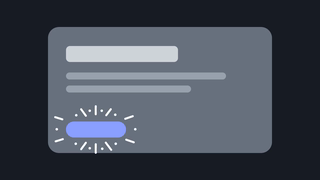
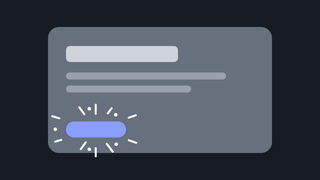
feat(engine): snappier burst, gone by 70 % of its life with seeded ray offsets

diff --git a/packages/ffmpeg-video-composer/src/editor/presets/fx-burst.ts b/packages/ffmpeg-video-composer/src/editor/presets/fx-burst.ts
@@ -3,15 +3,18 @@
 //
 // Each ray is a compile-time `ray` sprite (a solid capsule) ALREADY TURNED to its angle, at its longest
 // length, so nothing rotates per frame; a capsule turned half a turn is itself, so opposite rays share one
-// sprite. A ray is a trim path: its head runs from the inner to the outer radius over the first 60 % of its
-// life, its tail follows over the last 70 % (both on the pass ease), so it grows from a stub, shoots out at
-// full length, then shrinks into the outer radius. The overlay centres the sprite between head and tail
+// sprite. Everything is gone by 70 % of the duration (END): a ray's life runs from its start to there, and
+// nothing lingers faint over the rest of the window: each branch runs CLEAR frames past its fade, so its last
+// frame, the one its overlay repeats until the window ends, is clear. A ray is a trim path: its head runs from the inner to
+// the outer radius over the first 60 % of its life, its tail follows over the last 70 % (both on the pass
+// ease), so it grows from a stub, shoots out at full length, then shrinks into the outer radius. The overlay centres the sprite between head and tail
 // (x/y expressions in t) and scales it down per frame to the head-tail distance (scale eval=frame, never
 // up, floored at 30 %: the stroke thins with it). Alpha: a 4-frame ramp in, then a fade over the last
-// 55 %. Dots (one shared disc sprite) ride between the rays a beat later and shrink as they go. The region is
+// 55 %. Dots (one shared disc sprite, few and large) ride in the gaps between the rays a beat later and shrink
+// as they go. The region is
 // a square around the origin that holds the outer radius plus half a ray, unmasked (fx-marks drawIn): the
 // rays leave the button they burst from. Jitter (seeded, drawn in a fixed order) offsets each ray's angle,
-// reach, length and start. At most 48 overlays per graphic (later passes drop first).
+// reach, length (±20 % at the default) and start (0–30 ms late at the default), so no burst looks stamped. At most 48 overlays per graphic (later passes drop first).
 // Reduced motion: the rays at rest at mid travel, 70 % long, faded in and out; no dots.
 // Filters: fps, trim, split, colorchannelmixer, fade, scale (eval=frame), overlay: all on-device.
 
@@ -46,13 +49,23 @@ const DEFAULT_THICKNESS = 6;
 const DEFAULT_GAP = 0.1;
 const DEFAULT_TRAVEL = 0.55;
 /** A dot's diameter, in ray strokes. */
-export const DOT_SIZE = 2.4;
+export const DOT_SIZE = 3.4;
 const DEFAULT_LENGTH = 0.5;
 const DEFAULT_JITTER = 0.2;
-const MAX_DOTS = 12;
+/** `dots: true` puts one dot in every other gap, at most this many. */
+const MAX_DOTS = 6;
+/** The latest a ray starts after the pass, s, at the default jitter and above. */
+const RAY_DELAY = 0.03;
+/** The share of the duration by which every ray and dot is gone. */
+export const END = 0.7;
+/**
+ * Frames a branch runs past its fade. A layer overlay repeats a branch's last frame until the window ends,
+ * so that frame must be the fully faded one; trim rounds its end to the nearest frame, so one is not enough.
+ */
+const CLEAR = 2;
 /** The smallest share of its sprite a ray is drawn at (a stub at birth and at death). */
 export const FLOOR = 0.3;
-/** Shares of a ray's life: the head travels over [0, HEAD], the tail over [TAIL, 1], the fade from FADE. */
+/** Shares of a ray's life (its start to END): the head travels over [0, HEAD], the tail over [TAIL, 1], the fade from FADE. */
 export const HEAD = 0.6;
 export const TAIL = 0.3;
 export const FADE = 0.45;
@@ -107,10 +120,21 @@ function fan(count: number, spread: number, rotation: number, between: boolean):
   return Array.from({ length: count }, (_, i) => first + offset + i * step);
 }
 
+/** `count` dot angles spread evenly over the gaps between the ray angles (a dot never sits on a ray). */
+function gapsOf(rays: number[], spread: number, rotation: number, count: number): number[] {
+  const step = rays[1] - rays[0];
+  const gaps = rays.slice(0, spread >= 360 ? rays.length : rays.length - 1).map((angle) => angle + step / 2);
+
+  // More dots than gaps: evenly over the spread, as many as asked.
+  if (count > gaps.length) return fan(count, spread, rotation, true);
+
+  return Array.from({ length: count }, (_, i) => gaps[Math.floor(((i + 0.5) * gaps.length) / count)]);
+}
+
 function dotCount(fx: Ctx, rays: number): number {
   const dots = fx.graphic.dots;
 
-  if (dots === true) return Math.min(rays, MAX_DOTS);
+  if (dots === true) return Math.min(Math.ceil(rays / 2), MAX_DOTS);
 
   return typeof dots === 'number' ? dots : 0;
 }
@@ -163,11 +187,12 @@ function partsOf(fx: Ctx, geo: Geometry, thickness: number): Pick<BurstPlan, 'ra
   const spread = g.spread ?? 360;
   const jitter = g.jitter ?? DEFAULT_JITTER;
   const step = spread / (spread >= 360 ? count : Math.max(1, count - 1));
-  const shape = fan(count, spread, g.rotation ?? 0, false).map((angle) => {
+  const angles = fan(count, spread, g.rotation ?? 0, false);
+  const shape = angles.map((angle) => {
     const turn = (fx.random() - 0.5) * jitter * step * 0.5;
     const reach = 1 + (fx.random() - 0.5) * jitter * 0.5;
-    const stretch = 1 + (fx.random() - 0.5) * jitter * 0.8;
-    const delay = fx.random() * jitter * 0.15 * fx.duration;
+    const stretch = 1 + (fx.random() - 0.5) * Math.min(1, jitter * 2);
+    const delay = fx.random() * RAY_DELAY * Math.min(1, jitter / DEFAULT_JITTER);
     const [inner, outer] = travelAlong(fx, geo, angle + turn);
     const far = inner + Math.max(1, outer - inner) * reach;
 
@@ -179,20 +204,20 @@ function partsOf(fx: Ctx, geo: Geometry, thickness: number): Pick<BurstPlan, 'ra
       delay,
     };
   });
-  const dotAngles = fan(dotCount(fx, count), spread, g.rotation ?? 0, true);
+  const dotAngles = gapsOf(angles, spread, g.rotation ?? 0, dotCount(fx, count));
   const dotReach = dotAngles.map(() => 1 + (fx.random() - 0.5) * jitter * 0.6);
   const starts = passStarts(fx, shape.length + dotAngles.length);
 
   return {
     rays: starts.flatMap((t0) =>
-      shape.map(({ delay, ...ray }) => ({ ...ray, start: t0 + delay, life: fx.duration - delay }))
+      shape.map(({ delay, ...ray }) => ({ ...ray, start: t0 + delay, life: fx.duration * END - delay }))
     ),
     dots: starts.flatMap((t0) =>
       dotAngles.map((angle, i) => ({
         angle,
         ...dotPath(travelAlong(fx, geo, angle), dotReach[i]),
         start: t0 + DOT_DELAY * fx.duration,
-        life: fx.duration * (1 - DOT_DELAY),
+        life: fx.duration * (END - DOT_DELAY),
       }))
     ),
   };
@@ -270,7 +295,7 @@ function rayFilters(fx: Ctx, ray: Ray, spec: SpriteSpec, path: Path): Filter[] {
   const ramp = Math.min(rampOf(fx), ray.life / 4);
 
   return [
-    { type: 'trim', value: `start=${fmt(ray.start)}:end=${fmt(ray.start + ray.life)}` },
+    { type: 'trim', value: `start=${fmt(ray.start)}:end=${fmt(ray.start + ray.life + CLEAR / fx.frame.fps)}` },
     fadeIn(fx, ray.start, ramp),
     ...fadeOut(fx, ray.start + ray.life * FADE, ray.life * (1 - FADE)),
     scaleTo(sizeExpr(spec.w, factor), sizeExpr(spec.h, factor)),
@@ -305,7 +330,7 @@ function dotLayer(fx: Ctx, plan: BurstPlan, dot: Dot, input: string, label: stri
   const [c, s] = [Math.cos((dot.angle * Math.PI) / 180), Math.sin((dot.angle * Math.PI) / 180)];
   const side = dotSpec(plan).w;
   const filters: Filter[] = [
-    { type: 'trim', value: `start=${fmt(dot.start)}:end=${fmt(dot.start + dot.life)}` },
+    { type: 'trim', value: `start=${fmt(dot.start)}:end=${fmt(dot.start + dot.life + CLEAR / fx.frame.fps)}` },
     fadeIn(fx, dot.start, Math.min(rampOf(fx), dot.life / 4)),
     ...fadeOut(fx, dot.start + dot.life * 0.5, dot.life * 0.5),
     scaleTo(sizeExpr(side, `1-${DOT_SHRINK}*(${travel})`)),

diff --git a/packages/ffmpeg-video-composer/tests/fx-burst.test.ts b/packages/ffmpeg-video-composer/tests/fx-burst.test.ts
@@ -7,7 +7,7 @@ import { parseSpriteUrl, spriteImage } from '@/editor/presets/fx-sprites';
 import type { SugarContext } from '@/editor/presets/sugar-context';
 import { FX_PRIMITIVES, type FxGraphic } from '@/schemas/fx.schemas';
 import { GraphicSchema } from '@/schemas/graphics.schemas';
-import { planOf } from '@/editor/presets/fx-burst';
+import { DOT_SIZE, END, planOf } from '@/editor/presets/fx-burst';
 import type { FxContext } from '@/editor/presets/fx-kit';
 
 function burstContext(target: { x: number; y: number; w: number; h: number }): FxContext<'burst'> {
@@ -95,6 +95,11 @@ describe('fx burst schema', () => {
     expect(FX_PRIMITIVES.burst.defaults.ceiling * FX_PRIMITIVES.burst.defaults.intensity).toBeGreaterThanOrEqual(0.85);
   });
 
+  it('defaults to a 0.4 s snap on an expo-out travel', () => {
+    expect(FX_PRIMITIVES.burst.defaults.duration).toBe(0.4);
+    expect(FX_PRIMITIVES.burst.defaults.ease).toBe('cubic-bezier(0.16, 1, 0.3, 1)');
+  });
+
   it('accepts its own parameters and rejects the rest', () => {
     const ok = [
       { effect: 'burst' },
@@ -152,22 +157,83 @@ describe('fx burst lowering', () => {
     const up = parseSpriteUrl(inputs.find((url) => url.includes('tilt=90')) ?? '');
     const [ray] = chains.filter((chain) => chain.outputs?.[0] === 'fx1_ry0');
     const overlay = chains.find((chain) => chain.inputs?.includes('fx1_ry0'))?.filters[0];
-    const head = easedProgressExpr(parseEasing('linear'), { delay: 0.4, duration: 0.36 });
-    const tail = easedProgressExpr(parseEasing('linear'), { delay: 0.58, duration: 0.42 });
+    // Visible life: 0.7 of the 0.6 s duration = 0.42 s; head over its first 60 %, tail over its last 70 %.
+    const head = easedProgressExpr(parseEasing('linear'), { delay: 0.4, duration: 0.252 });
+    const tail = easedProgressExpr(parseEasing('linear'), { delay: 0.526, duration: 0.294 });
     const factor = `clip(((${head})-(${tail}))*2,0.3,1)`;
 
     // Thickness 6 px at 1080p → 4 px at 720p; length 0.5 of the 100 px travel → 50 px.
     expect(up).toMatchObject({ kind: 'ray', tilt: 90, width: 50, stroke: 4, w: 6, h: 52 });
     expect(ray.filters.map((f) => `${f.type}=${String(f.value)}`)).toEqual([
-      'trim=start=0.4:end=1',
-      'fade=t=in:st=0.4:d=0.133333:alpha=1',
-      'fade=t=out:st=0.67:d=0.33:alpha=1',
+      'trim=start=0.4:end=0.886667',
+      'fade=t=in:st=0.4:d=0.105:alpha=1',
+      'fade=t=out:st=0.589:d=0.231:alpha=1',
       `scale=w='max(2,2*trunc(3*(${factor})+0.5))':h='max(2,2*trunc(26*(${factor})+0.5))':eval=frame`,
     ]);
     // Region: a square around the origin (640, 360) of half side 200 + 25 + 4 + 4, snapped outward to even px: x 406, y 126.
     expect(overlay?.value).toBe(
       `x='234+0*((${head})+(${tail}))-overlay_w/2':y='134+-50*((${head})+(${tail}))-overlay_h/2'`
     );
+  });
+
+  it('is gone by 70 % of its life: every ray and dot trims and fades out by then', () => {
+    // Default duration 0.4 s from at 0.4: nothing draws after 0.4 + 0.7 · 0.4 = 0.68 s.
+    // Each branch keeps a fully faded frame past its fade: a layer overlay repeats a branch's last frame
+    // until the window ends, so that frame must be clear (2 frames of margin: trim rounds its end to a frame).
+    const { chains } = lower({ target: HEART, dots: true });
+    const parts = chains.filter((chain) => /fx1_(ry|dt)\d+$/.test(chain.outputs?.[0] ?? ''));
+    const done = 0.4 + END * 0.4;
+
+    expect(END).toBe(0.7);
+    expect(parts).toHaveLength(12);
+
+    for (const chain of parts) {
+      const end = Number(/end=([\d.]+)/.exec(String(chain.filters[0].value))?.[1]);
+      const fade = chain.filters.find((f) => String(f.value).startsWith('t=out'));
+      const [, st, d] = /st=([\d.]+):d=([\d.]+)/.exec(String(fade?.value)) ?? [];
+
+      expect(Number(st) + Number(d)).toBeLessThanOrEqual(done + 1e-6);
+      expect(end).toBeCloseTo(Number(st) + Number(d) + 2 / 30, 5);
+    }
+  });
+
+  it('breaks the stamp: each ray starts 0–30 ms late and is ±20 % long, from the seed', () => {
+    let state = 12345;
+    const random = () => {
+      state = (state * 1103515245 + 12345) % 2147483648;
+
+      return state / 2147483648;
+    };
+    const fx = {
+      ...burstContext(HEART),
+      graphic: { type: 'fx', effect: 'burst', rays: 24 },
+      random,
+    } as FxContext<'burst'>;
+    const rays = planOf(fx)?.rays ?? [];
+    const offsets = rays.map((ray) => ray.start - fx.at);
+    const lengths = rays.map((ray) => ray.length / (0.5 * (ray.outer - ray.inner)));
+
+    expect(Math.min(...offsets)).toBeGreaterThanOrEqual(0);
+    expect(Math.max(...offsets)).toBeLessThanOrEqual(0.03);
+    expect(Math.max(...offsets) - Math.min(...offsets)).toBeGreaterThan(0.015);
+    expect(Math.min(...lengths)).toBeGreaterThanOrEqual(0.8 - 1e-9);
+    expect(Math.max(...lengths)).toBeLessThanOrEqual(1.2 + 1e-9);
+    expect(Math.max(...lengths) - Math.min(...lengths)).toBeGreaterThan(0.2);
+    // Every ray still ends with the others, at 70 % of the duration.
+    expect(rays.every((ray) => Math.abs(ray.start + ray.life - (fx.at + END * fx.duration)) < 1e-9)).toBe(true);
+  });
+
+  it('draws fewer, larger dots, each in a gap between two rays', () => {
+    const fx = { ...burstContext(HEART), graphic: { type: 'fx', effect: 'burst', dots: true, jitter: 0 } };
+    const plan = planOf(fx as FxContext<'burst'>);
+    const rays = plan?.rays.map((ray) => ray.angle) ?? [];
+    const dots = plan?.dots.map((dot) => dot.angle) ?? [];
+    const apart = (a: number, b: number) => Math.abs(((a - b + 540) % 360) - 180);
+
+    expect(DOT_SIZE).toBeGreaterThanOrEqual(3.4);
+    expect(dots).toHaveLength(4);
+
+    for (const dot of dots) expect(Math.min(...rays.map((ray) => apart(dot, ray)))).toBeCloseTo(22.5, 6);
   });
 
   it('starts each ray just outside the target edge by default, whatever its shape', () => {
@@ -202,8 +268,8 @@ describe('fx burst lowering', () => {
 
     expect(discs).toHaveLength(1);
     expect(discs[0]?.shape).toBe('disc');
-    expect(count(text, /overlay=x=/g)).toBe(12);
-    expect(count(lower({ target: HEART, rays: 6, dots: 3 }).text, /overlay=x=/g)).toBe(9);
+    expect(count(text, /overlay=x=/g)).toBe(9);
+    expect(count(lower({ target: HEART, rays: 6, dots: 2 }).text, /overlay=x=/g)).toBe(8);
   });
 
   it('defaults to the theme accent and honours an authored colour', () => {

diff --git a/packages/ffmpeg-video-composer/tests/fx-burst-render.test.ts b/packages/ffmpeg-video-composer/tests/fx-burst-render.test.ts
@@ -127,9 +127,9 @@ function litRadii(frame: Buffer, plain: Buffer, angle: number): number[] {
   );
 }
 
-/** The ray's predicted extent at section time t (linear trim path, see fx-burst.ts). */
+/** The ray's predicted extent at section time t (linear trim path over 70 % of the duration, see fx-burst.ts). */
 function predicted(t: number): [number, number] {
-  const p = (t - AT) / DURATION;
+  const p = (t - AT) / (DURATION * 0.7);
   const head = INNER + (OUTER - INNER) * Math.min(1, Math.max(0, p / 0.6));
   const tail = INNER + (OUTER - INNER) * Math.min(1, Math.max(0, (p - 0.3) / 0.7));
   const length = LENGTH * Math.min(1, Math.max(0.3, (head - tail) / LENGTH));
@@ -142,6 +142,7 @@ const ready = hasFfmpeg();
 let plain: Buffer[] = [];
 let burst: Buffer[] = [];
 let turned: Buffer[] = [];
+let dotted: Buffer[] = [];
 
 beforeAll(() => {
   if (!ready) return;
@@ -150,6 +151,7 @@ beforeAll(() => {
   plain = render(null, 'plain');
   burst = render(GRAPHIC, 'burst');
   turned = render({ ...GRAPHIC, rotation: 45 } as FxGraphic, 'turned');
+  dotted = render({ ...GRAPHIC, dots: true, jitter: 0.2, duration: 0.4 } as FxGraphic, 'dotted');
 
   if (!dump) return;
 
@@ -167,7 +169,7 @@ beforeAll(() => {
 
 describe.skipIf(!ready)('burst on real frames', () => {
   it('stands every ray on its angle, between the radii the trim path predicts', () => {
-    for (const n of [9, 14, 17, 22]) {
+    for (const n of [9, 12, 14, 16]) {
       const [near, far] = predicted(n / FPS);
 
       for (const angle of [-90, 0, 90, 180]) {
@@ -187,7 +189,7 @@ describe.skipIf(!ready)('burst on real frames', () => {
   });
 
   it('turns the whole fan by `rotation`: diagonal rays are pre-rotated sprites on the diagonals', () => {
-    const n = 17;
+    const n = 14;
     const [, far] = predicted(n / FPS);
 
     for (const angle of [-45, 45, 135, -135]) {
@@ -207,6 +209,18 @@ describe.skipIf(!ready)('burst on real frames', () => {
 
     expect(lit[0]).toBeGreaterThanOrEqual(Math.round(AT * FPS));
     expect(lit.at(-1)).toBeLessThanOrEqual(Math.round((AT + DURATION) * FPS));
+  });
+
+  it('leaves nothing behind after 70 % of its life: no ray, no faint dot', () => {
+    // At 0.2 s for the default 0.4 s: everything is gone by 0.2 + 0.28 = 0.48 s, between frames 14 and 15
+    // (off the frame grid: trim rounds its end to the nearest frame, so a branch must keep a clear frame).
+    const last = Math.ceil((AT + 0.4 * 0.7) * FPS);
+    const peak = (frame: Buffer, plainFrame: Buffer) =>
+      frame.reduce((most, v, i) => Math.max(most, Math.abs(v - plainFrame[i])), 0);
+
+    expect(peak(dotted[Math.round((AT + 0.1) * FPS)], plain[0])).toBeGreaterThan(120);
+
+    for (let n = last; n < dotted.length; n++) expect(peak(dotted[n], plain[n]), `frame ${n}`).toBeLessThanOrEqual(2);
   });
 
   it('renders the same bytes twice', () => {

diff --git a/packages/ffmpeg-video-composer/src/schemas/fx-celebrate.docs.ts b/packages/ffmpeg-video-composer/src/schemas/fx-celebrate.docs.ts
@@ -85,17 +85,17 @@ export const burstDoc = {
     thickness: 'Ray stroke in px at 1080p (default 6; scaled to the output frame). Thins as the ray shrinks.',
     length:
       "A ray's longest length as a share of its travel (outer - inner; default 0.5). Each ray grows from a stub, shoots out at that length, then shrinks into the outer radius.",
-    dots: 'Small dots riding between the rays: true = one per gap (at most 12), or a count 1–12 (default none).',
+    dots: 'Dots riding in the gaps between the rays, larger than the stroke: true = one in every other gap (at most 6), or a count 1–12 (default none).',
     spread:
       'Degrees the rays fan over, centred on up (default 360 = all around; 180 = a half burst over the origin, 90 = a narrow fan).',
     rotation:
       'Degrees the whole fan turns clockwise (default 0: a full burst has a ray straight up; 180 points a half burst down).',
     jitter:
-      'Seeded irregularity 0..1 (default 0.2): each ray gets its own angle offset, reach, length and a slight delay. 0 = perfectly regular.',
+      'Seeded irregularity 0..1 (default 0.2): each ray gets its own angle offset, reach, length (±20 % at 0.2) and start (0–30 ms late at 0.2 and above), so no burst looks stamped. 0 = perfectly regular.',
   },
   intent: {
     summary:
-      'A one-shot radial burst from a point: thin strokes shoot out, grow then shrink as they fade, with optional dots between them; the impact lines of a like-button pop or a "BAM!".',
+      'A one-shot radial burst from a point: thin strokes shoot out on an expo-out, grow then shrink as they fade, with optional dots between them, all gone by 70 % of the duration; the impact lines of a like-button pop or a "BAM!".',
     useWhen: 'a heart or a button pops; a badge or a price slams in; a stamp lands; the beat a counter hits its goal',
     avoidWhen: 'calm or editorial tones; on every element of a section; together with confetti or a glint in one beat',
     vary: 'origin and radius put it on the exact element; rays, thickness and length set its weight (few and thick = a pop, many and thin = a flash); spread + rotation fan it (180 = a half burst over a title); dots add sparkle; jitter breaks the symmetry; duration and ease set the snap; colour defaults to the theme accent.',

diff --git a/packages/ffmpeg-video-composer/src/schemas/fx-celebrate.schemas.ts b/packages/ffmpeg-video-composer/src/schemas/fx-celebrate.schemas.ts
@@ -89,5 +89,5 @@ export const burst = {
     jitter: z.number().min(0).max(1).optional(),
   },
   // Solid strokes like the other marks: a burst must read at phone scale, and each ray is a few px wide.
-  defaults: { duration: 0.6, ease: 'cubic-bezier(0.16, 1, 0.3, 1)', ceiling: 1, intensity: 0.9 },
+  defaults: { duration: 0.4, ease: 'cubic-bezier(0.16, 1, 0.3, 1)', ceiling: 1, intensity: 0.9 },
 };

diff --git a/packages/leclap-creative-kit/scripts/animation-thumbs-data.ts b/packages/leclap-creative-kit/scripts/animation-thumbs-data.ts
@@ -127,7 +127,7 @@ export const ENGINE_THUMBS: EngineThumb[] = [
     fx('confetti', { at: 0.05, duration: 1.9, origin: { x: 0.5, y: 0.8 }, count: 32, size: 56, speed: 1.4 }),
   ]),
   // Impact lines around the accent button, twice so the 2 s clip loops on a beat.
-  thumb('burst', 'Burst', 0.32, [
+  thumb('burst', 'Burst', 0.26, [
     {
       type: 'fx',
       effect: 'burst',

diff --git a/docs/gallery/gallery.py b/docs/gallery/gallery.py
@@ -237,7 +237,7 @@ def graphics():
 # Each fx primitive near its peak: (section, seconds into it, family).
 FX = [
     ('sheen', 0.85, 'light'), ('edge-glow', 1.2, 'light'), ('leak', 1.2, 'light'), ('bloom', 1.2, 'light'),
-    ('ripple', 0.75, 'marks'), ('glint', 0.75, 'marks'), ('confetti', 0.75, 'marks'), ('burst', 0.55, 'marks'),
+    ('ripple', 0.75, 'marks'), ('glint', 0.75, 'marks'), ('confetti', 0.75, 'marks'), ('burst', 0.5, 'marks'),
     ('bokeh', 1.2, 'ambient'), ('dust', 1.2, 'ambient'), ('vignette-breathe', 1.2, 'ambient'),
     ('grain', 1.2, 'ambient'), ('glass', 1.2, 'surfaces'), ('resolve', 0.75, 'surfaces'),
 ]

diff --git a/docs/template-configuration.md b/docs/template-configuration.md
@@ -1839,7 +1839,7 @@ Use when: a real celebration: a launch, a milestone, a win, a sign-up count; onc
 
 #### `burst` (marks)
 
-A one-shot radial burst from a point: thin strokes shoot out, grow then shrink as they fade, with optional dots between them; the impact lines of a like-button pop or a "BAM!". Defaults: 0.6 s on `cubic-bezier(0.16, 1, 0.3, 1)`, ceiling 1, intensity 0.9. Reduced motion: the rays appear at rest at mid travel and fade in and out (no travel, no growth).
+A one-shot radial burst from a point: thin strokes shoot out on an expo-out, grow then shrink as they fade, with optional dots between them, all gone by 70 % of the duration; the impact lines of a like-button pop or a "BAM!". Defaults: 0.4 s on `cubic-bezier(0.16, 1, 0.3, 1)`, ceiling 1, intensity 0.9. Reduced motion: the rays appear at rest at mid travel and fade in and out (no travel, no growth).
 
 | Field       | Range                  | What it does                                                                                                                                                                                                                                                                                                                                                               |
 | ----------- | ---------------------- | -------------------------------------------------------------------------------------------------------------------------------------------------------------------------------------------------------------------------------------------------------------------------------------------------------------------------------------------------------------------------- |
@@ -1848,10 +1848,10 @@ A one-shot radial burst from a point: thin strokes shoot out, grow then shrink a
 | `radius`    | `[inner, outer]` (0–4) | [inner, outer]: where the rays start and where they vanish, from the origin, as shares of the target's size (its short side, or half its long side when larger). Default: each ray starts just outside the target's edge along its own direction (0.1 of the size past it) and travels 0.55 of it, so a burst around a pill or a badge clears it; [0.6, 1.15] on a square. |
 | `thickness` | 1–32                   | Ray stroke in px at 1080p (default 6; scaled to the output frame). Thins as the ray shrinks.                                                                                                                                                                                                                                                                               |
 | `length`    | 0.1–1                  | A ray's longest length as a share of its travel (outer - inner; default 0.5). Each ray grows from a stub, shoots out at that length, then shrinks into the outer radius.                                                                                                                                                                                                   |
-| `dots`      | boolean \| int 1–12    | Small dots riding between the rays: true = one per gap (at most 12), or a count 1–12 (default none).                                                                                                                                                                                                                                                                       |
+| `dots`      | boolean \| int 1–12    | Dots riding in the gaps between the rays, larger than the stroke: true = one in every other gap (at most 6), or a count 1–12 (default none).                                                                                                                                                                                                                               |
 | `spread`    | 10–360                 | Degrees the rays fan over, centred on up (default 360 = all around; 180 = a half burst over the origin, 90 = a narrow fan).                                                                                                                                                                                                                                                |
 | `rotation`  | -180–180               | Degrees the whole fan turns clockwise (default 0: a full burst has a ray straight up; 180 points a half burst down).                                                                                                                                                                                                                                                       |
-| `jitter`    | 0–1                    | Seeded irregularity 0..1 (default 0.2): each ray gets its own angle offset, reach, length and a slight delay. 0 = perfectly regular.                                                                                                                                                                                                                                       |
+| `jitter`    | 0–1                    | Seeded irregularity 0..1 (default 0.2): each ray gets its own angle offset, reach, length (±20 % at 0.2) and start (0–30 ms late at 0.2 and above), so no burst looks stamped. 0 = perfectly regular.                                                                                                                                                                      |
 
 Use when: a heart or a button pops; a badge or a price slams in; a stamp lands; the beat a counter hits its goal. Avoid: calm or editorial tones; on every element of a section; together with confetti or a glint in one beat.
 

diff --git a/packages/ffmpeg-video-composer/CHANGELOG.md b/packages/ffmpeg-video-composer/CHANGELOG.md
@@ -30,7 +30,10 @@ and this project adheres to [Semantic Versioning](https://semver.org/spec/v2.0.0
   "BAM!". Thin rays shoot out from `origin`, grow then shrink between an inner and an outer radius as they
   fade, with optional `dots` between them. `rays` (4–24), `radius` ([inner, outer]; by default each ray starts
   just outside the target's edge along its own direction, so a burst around a pill or a badge clears it),
-  `thickness`, `length`, `spread` (180 = a half burst), `rotation` and a seeded `jitter`. Each ray is a
+  `thickness`, `length`, `spread` (180 = a half burst), `rotation` and a seeded `jitter` (each ray starts
+  0–30 ms late and is ±20 % long at the default, so no burst looks stamped). It snaps: 0.4 s by default on
+  an expo-out, every ray and dot gone by 70 % of the duration so nothing faint lingers, and `dots: true`
+  puts few, larger dots in every other gap. Each ray is a
   compile-time sprite already turned to its angle (opposite rays share one), moved and scaled by per-frame
   expressions: no `rotate`, only on-device filters (`scale`, `fade`, `colorchannelmixer`, `overlay`). Reduced
   motion: the rays rest at mid travel and fade in and out. It is in the motion catalog, the JSON schema, the
